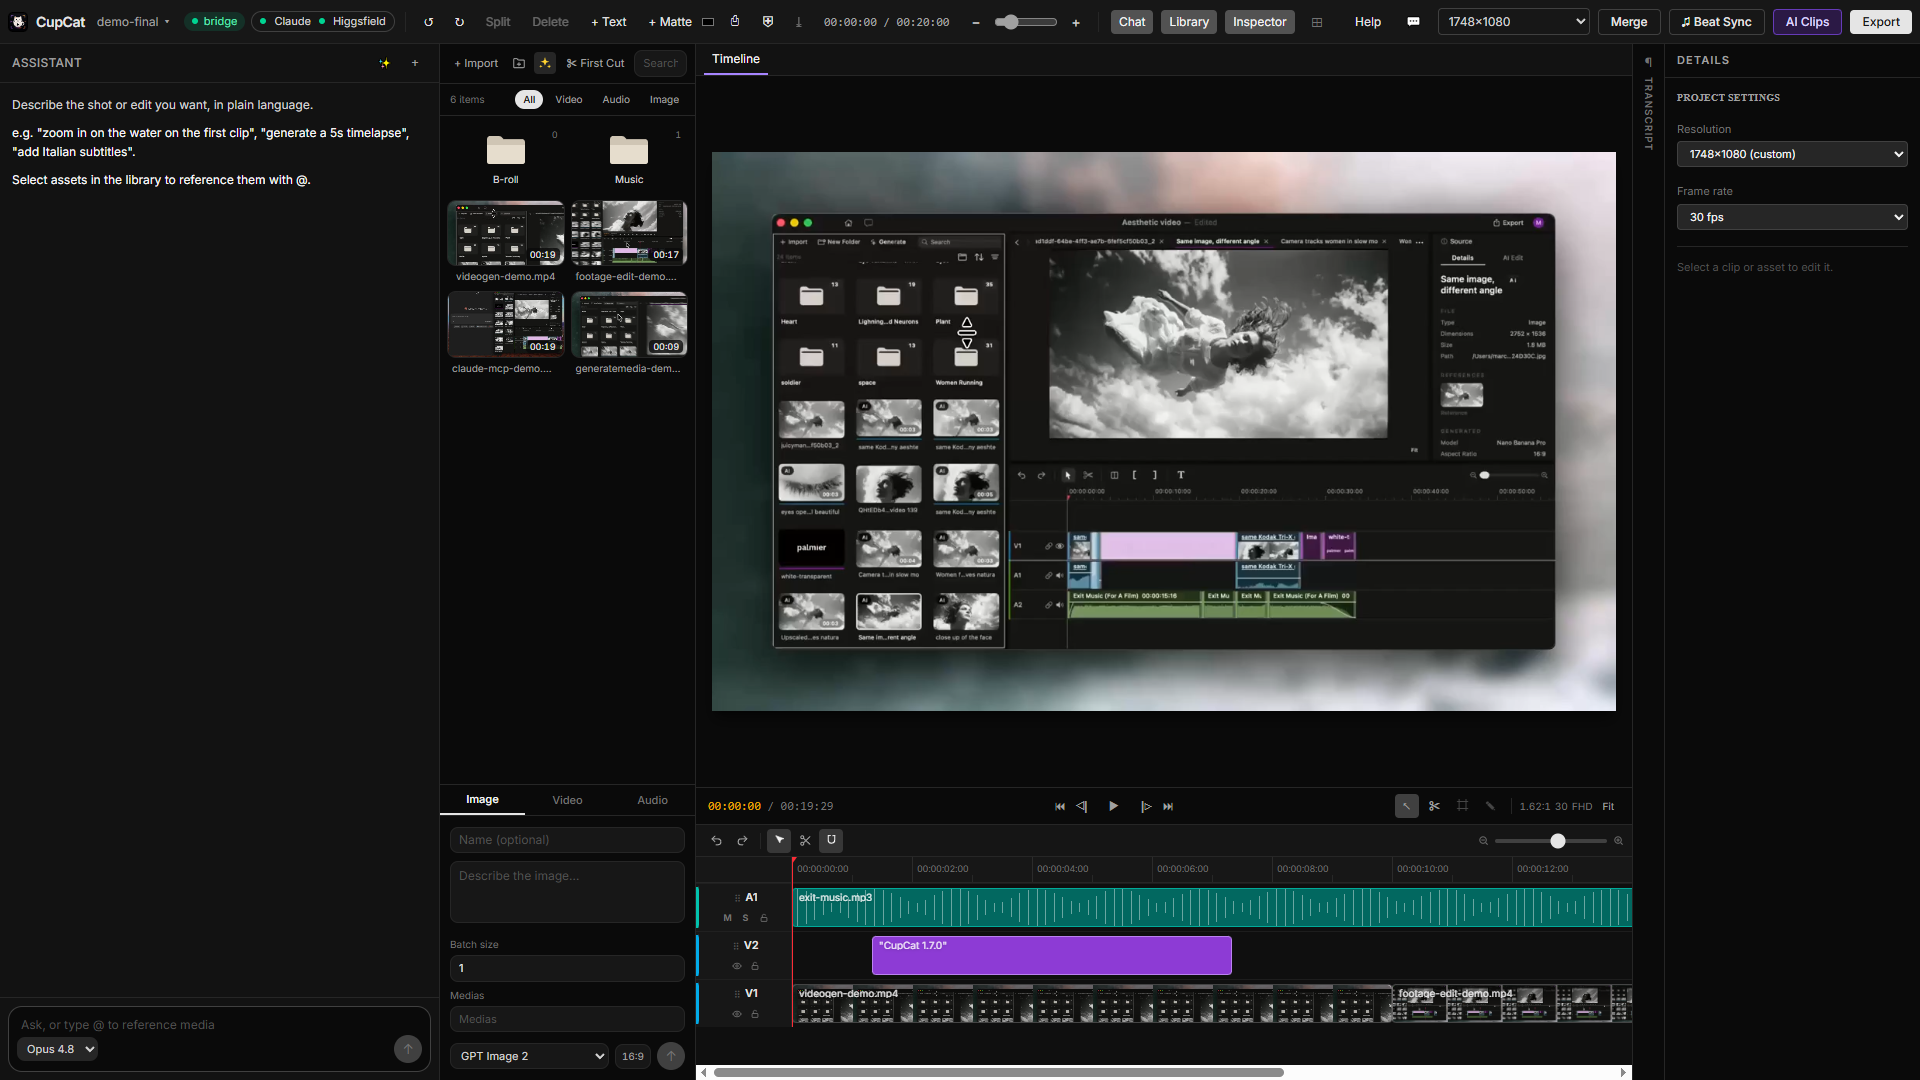
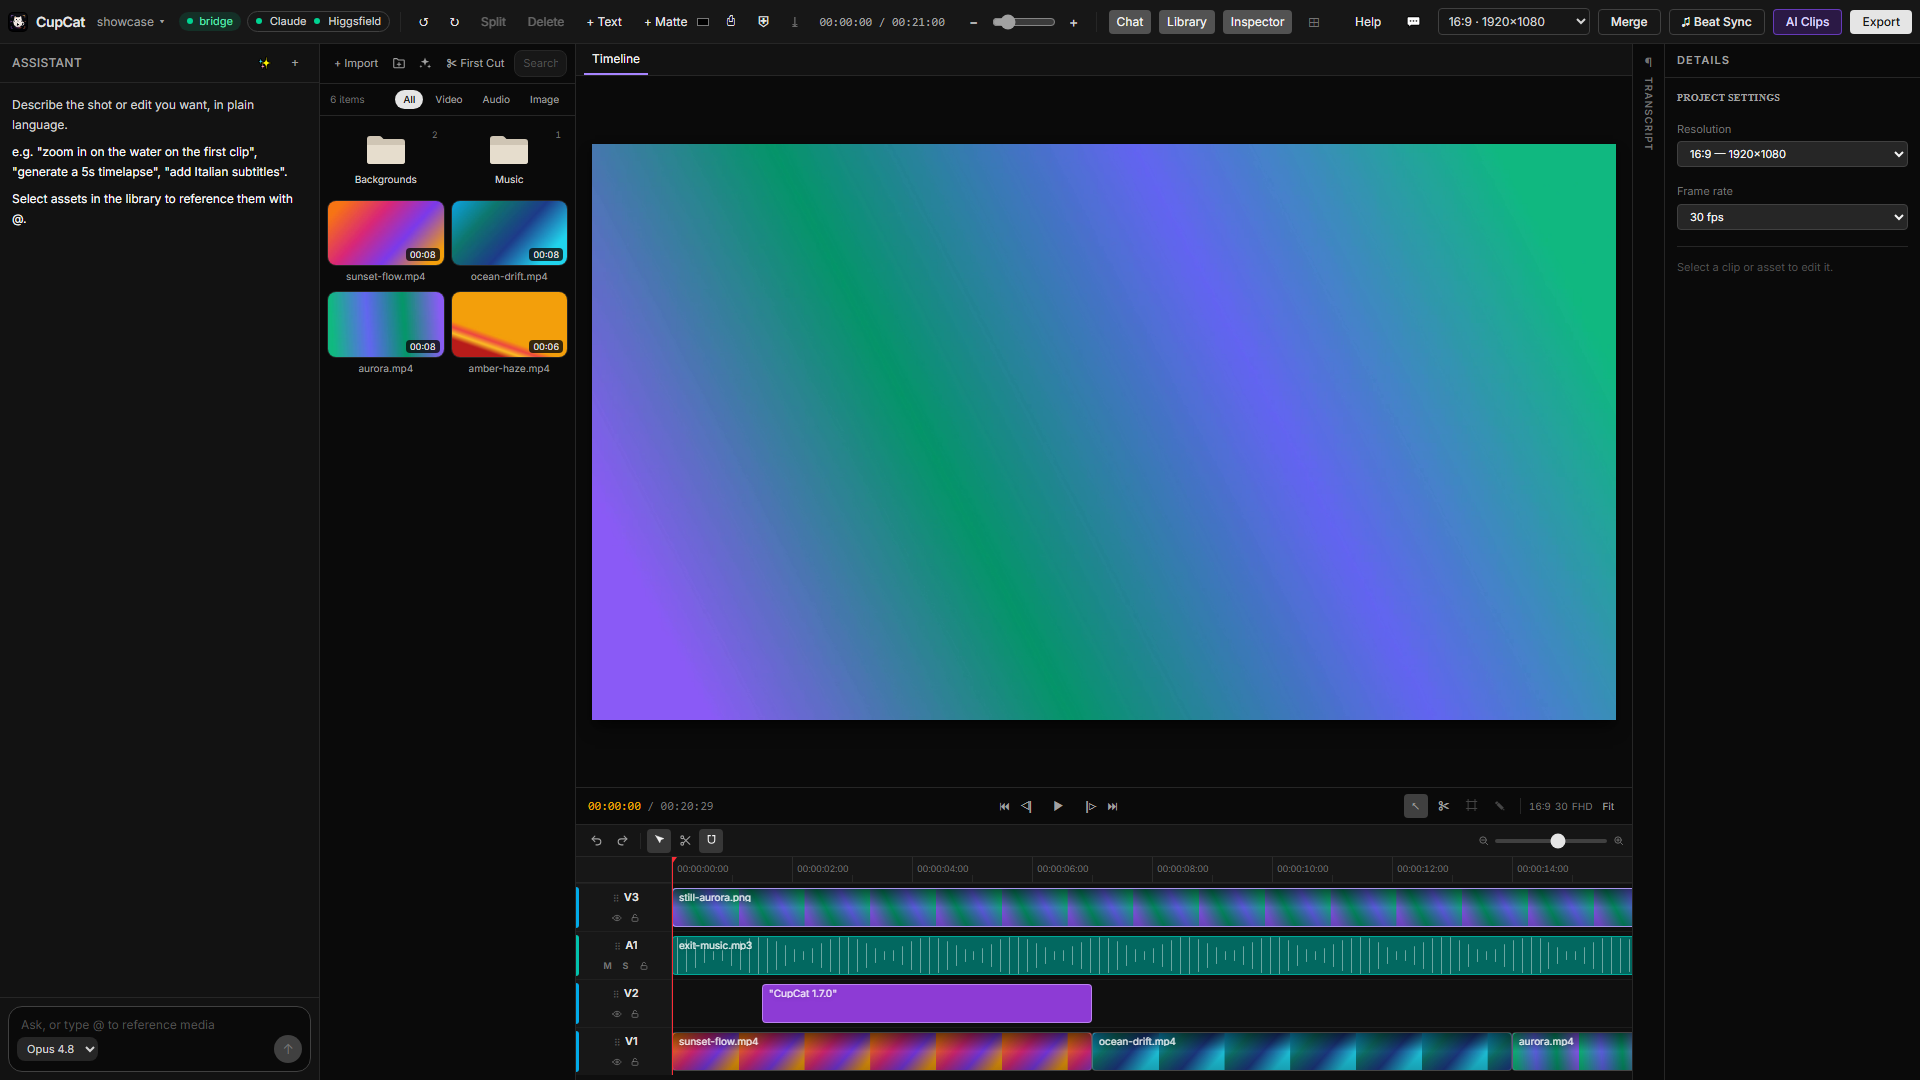
repo: CI, contributing/security docs, PR template; neutral README screenshot
- .github/workflows/ci.yml: typecheck + editor-core & web unit tests on push/PR
- CONTRIBUTING.md, SECURITY.md, PR template, .editorconfig
- editor-core: add `test` script so the workspace filter runs it
- docs/screenshot.png: regenerated with neutral demo media

Claude-Session: https://claude.ai/code/session_018vgoEpvmiUKXkJ3M3XSPkX

diff --git a/CONTRIBUTING.md b/CONTRIBUTING.md
@@ -1,0 +1,68 @@
+# Contributing to CupCat
+
+Thanks for your interest in CupCat — a free, local, AI-native video editor for Windows.
+
+## Project layout
+
+CupCat is a Bun monorepo:
+
+| Package | What it is |
+|---|---|
+| `packages/editor-core` | Pure-TypeScript timeline model — commands, undo/redo, keyframes, selectors. Framework-free, unit-tested. |
+| `apps/web` | The editor UI (React 19 + Vite + Tailwind). |
+| `apps/bridge` | The local process: MCP server + WebSocket, the on-device AI toolbox, ffmpeg + generation drivers. Compiles to one sidecar binary. |
+| `apps/desktop` | The Tauri shell that bundles everything into a Windows installer. |
+
+## Prerequisites
+
+- **[Bun](https://bun.sh)** (see `package.json` → `engines` / `.prototools` for the pinned version)
+- **Rust** + the MSVC toolchain (only needed to build the desktop shell / installer)
+- **WebView2** (ships with Windows 11; installable on Windows 10)
+
+The bundled AI engines (ffmpeg, Whisper/GGML models, Piper voices, sherpa-onnx models) live under
+`apps/desktop/src-tauri/sidecars/` and are **git-ignored** for size. The published installer already
+contains them; for local desktop builds you point the bridge at your own copies via the
+`CUPCAT_*_BIN` / `CUPCAT_*_DIR` environment variables (see `apps/bridge/src/config.ts`).
+
+## Develop
+
+```bash
+bun install
+bun run build:core          # build the shared model (other packages depend on it)
+
+# run the web editor and the bridge (bridge listens on 127.0.0.1:19789)
+bun run web
+bun run bridge
+```
+
+Open the printed local URL. To drive the editor with your own Claude:
+
+```bash
+claude mcp add --transport http cupcat http://127.0.0.1:19789/mcp
+```
+
+## Before you open a PR
+
+Run the same checks CI runs — they must be green:
+
+```bash
+bun run typecheck                        # editor-core + bridge + web
+bun --filter @cupcat/editor-core test    # timeline model
+bun --filter @cupcat/web test            # editor logic
+```
+
+Guidelines:
+
+- **Match the surrounding code** — comment density, naming, and idioms.
+- **Keep the model framework-free.** `packages/editor-core` must not import from React/Tauri/bridge.
+- **Add a test** when you change model behavior (`*.test.ts` next to the code).
+- **UI changes** should be checked at a few window widths; nothing may overflow its panel.
+- **Exports are user-initiated.** The AI agent prepares an edit and hands the user the Export
+  button — it must never render on the user's behalf. Keep that invariant.
+
+## Reporting bugs
+
+Open an issue with the steps to reproduce, the OS build, and — for editor bugs — the smallest
+project that shows the problem. For security issues, see [`SECURITY.md`](SECURITY.md).
+
+By contributing you agree that your contributions are licensed under **GPL-3.0-or-later**.

diff --git a/SECURITY.md b/SECURITY.md
@@ -1,0 +1,31 @@
+# Security Policy
+
+## Reporting a vulnerability
+
+Please **do not** open a public issue for security problems.
+
+Report privately through GitHub's **Report a vulnerability** button under the repository's
+**Security** tab (Security advisories), or contact the maintainer directly. Include:
+
+- what the issue is and where it lives (component + file/line if you have it),
+- steps to reproduce or a proof of concept,
+- the impact you think it has.
+
+You'll get an acknowledgement, and we'll work with you on a fix and coordinated disclosure.
+
+## Scope & good to know
+
+CupCat is **local-first**: the editor, the bridge, and the AI toolbox run on your own machine, and
+your media never leaves it.
+
+- The bridge listens on **`127.0.0.1:19789`** (loopback only). Reports about its MCP/WebSocket
+  surface, path handling, or command execution are in scope.
+- **Generative AI** runs through your own Higgsfield account via its CLI; account/credential
+  handling is delegated to that tool.
+- The desktop app bundles third-party engines (ffmpeg, Whisper, Piper, sherpa-onnx). Vulnerabilities
+  in those belong upstream, but tell us if CupCat uses one unsafely.
+
+## Supported versions
+
+Fixes land on the latest release line. Please test against the newest
+[release](../../releases/latest) before reporting.

diff --git a/.github/pull_request_template.md b/.github/pull_request_template.md
@@ -1,0 +1,16 @@
+## What & why
+
+<!-- What does this change do, and why? Link any related issue. -->
+
+## How I tested
+
+<!-- Commands run, scenarios exercised. For UI, note the window widths you checked. -->
+
+## Checklist
+
+- [ ] `bun run typecheck` passes
+- [ ] `bun --filter @cupcat/editor-core test` passes
+- [ ] `bun --filter @cupcat/web test` passes
+- [ ] Model changes come with a test (`packages/editor-core`)
+- [ ] UI changes don't overflow their panels at common widths
+- [ ] Exports stay user-initiated (the agent never renders on the user's behalf)